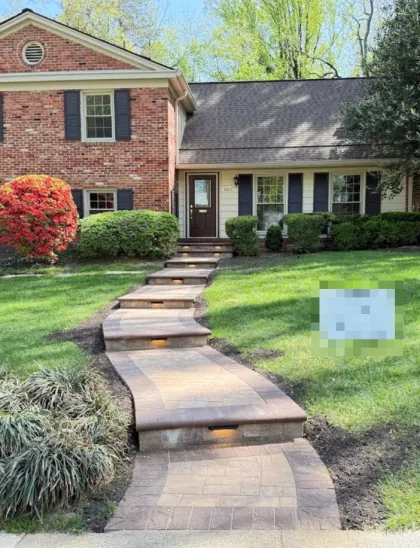
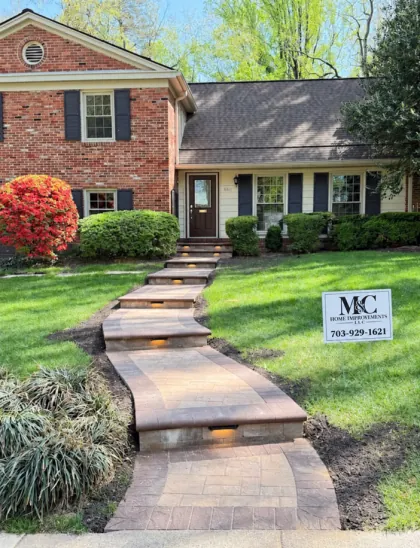
Replace the competitor yard sign in steps-paver-lit with an M&C sign
Edited with ChatGPT's image model, replacing the pixelated blur.

diff --git a/stone-work/walkways-steps/index.html b/stone-work/walkways-steps/index.html
@@ -270,8 +270,8 @@
 </picture>
       <figcaption style="margin-top:.6rem;font-size:.8rem;color:var(--ink-dim)">Curved paver side walkway with charcoal band inlays leading to a bluestone landing</figcaption></figure>
       <figure class="reveal" style="margin:0"><picture class="card__media">
-  <source type="image/webp" srcset="/assets/img/steps-paver-lit-420.webp?v=f262398b 420w, /assets/img/steps-paver-lit-702.webp?v=33cdb9ff 702w" sizes="(max-width:620px) 92vw, (max-width:900px) 45vw, 30vw">
-  <img src="/assets/img/steps-paver-lit-702.webp?v=33cdb9ff" srcset="/assets/img/steps-paver-lit-420.webp?v=f262398b 420w, /assets/img/steps-paver-lit-702.webp?v=33cdb9ff 702w" sizes="(max-width:620px) 92vw, (max-width:900px) 45vw, 30vw"
+  <source type="image/webp" srcset="/assets/img/steps-paver-lit-420.webp?v=e4a1e59a 420w, /assets/img/steps-paver-lit-702.webp?v=9765b7c1 702w" sizes="(max-width:620px) 92vw, (max-width:900px) 45vw, 30vw">
+  <img src="/assets/img/steps-paver-lit-702.webp?v=9765b7c1" srcset="/assets/img/steps-paver-lit-420.webp?v=e4a1e59a 420w, /assets/img/steps-paver-lit-702.webp?v=9765b7c1 702w" sizes="(max-width:620px) 92vw, (max-width:900px) 45vw, 30vw"
        width="702" height="916" alt="Paver walkway with lit steps leading up a front lawn to a brick colonial" loading="lazy" decoding="async">
 </picture>
       <figcaption style="margin-top:.6rem;font-size:.8rem;color:var(--ink-dim)">Paver walkway with lit steps leading up a front lawn to a brick colonial</figcaption></figure>

diff --git a/portfolio/index.html b/portfolio/index.html
@@ -521,8 +521,8 @@
   <figcaption>Charcoal herringbone paver patio with a curved seat wall, pillars, and round steps</figcaption>
 </figure>
 <figure class="reveal"><picture>
-  <source type="image/webp" srcset="/assets/img/steps-paver-lit-420.webp?v=f262398b 420w, /assets/img/steps-paver-lit-702.webp?v=33cdb9ff 702w" sizes="(max-width:560px) 92vw, (max-width:900px) 45vw, 30vw">
-  <img src="/assets/img/steps-paver-lit-702.webp?v=33cdb9ff" srcset="/assets/img/steps-paver-lit-420.webp?v=f262398b 420w, /assets/img/steps-paver-lit-702.webp?v=33cdb9ff 702w" sizes="(max-width:560px) 92vw, (max-width:900px) 45vw, 30vw"
+  <source type="image/webp" srcset="/assets/img/steps-paver-lit-420.webp?v=e4a1e59a 420w, /assets/img/steps-paver-lit-702.webp?v=9765b7c1 702w" sizes="(max-width:560px) 92vw, (max-width:900px) 45vw, 30vw">
+  <img src="/assets/img/steps-paver-lit-702.webp?v=9765b7c1" srcset="/assets/img/steps-paver-lit-420.webp?v=e4a1e59a 420w, /assets/img/steps-paver-lit-702.webp?v=9765b7c1 702w" sizes="(max-width:560px) 92vw, (max-width:900px) 45vw, 30vw"
        width="702" height="916" alt="Paver walkway with lit steps leading up a front lawn to a brick colonial" loading="lazy" decoding="async">
 </picture>
   <figcaption>Paver walkway with lit steps leading up a front lawn to a brick colonial</figcaption>
